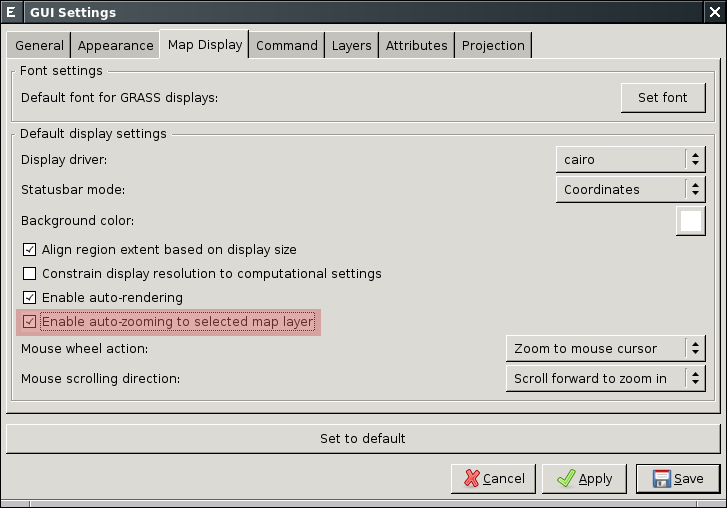
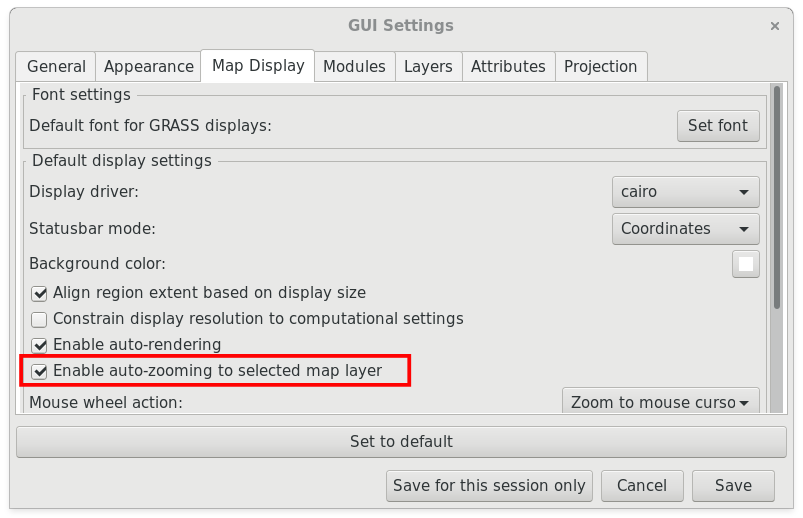
struktura dat + zobrazeni (review, update to g72)

Changed region(s): [[0.0, 0.0, 1.0, 1.0]]

diff --git a/intro/struktura-dat.rst b/intro/struktura-dat.rst
@@ -1,13 +1,15 @@
-.. _struktura-dat:
+==========================================
+ Struktura dat - koncept lokací a mapsetů
+==========================================
 
-Struktura dat - koncept lokací a mapsetů
-----------------------------------------
+Data, ke kterým GRASS přistupuje, musí mít pevně danou strukturu. Při
+spuštění systému GRASS uživatel volí *tři* níže uvedené elementy v
+daném pořadí, viz obrázek níže.
 
-Data, ke kterým GRASS přistupuje, mají pevně danou strukturu. Při
-:ref:`spuštění systému GRASS <spusteni-grass>` musí uživatel zvolit
-*tři* níže uvedené elementy v daném pořadí:
+.. figure:: images/welcome-screen.png
+            :scale-latex: 45
 
-**Adresář s geodaty (DataBase)**
+**1. Adresář s geodaty (DataBase)**
 
    Jde o adresář umístěný na lokálním či síťovém disku,
    např. :file:`/opt/grassdata` nebo :file:`C:\\grassdata` v případě
@@ -25,11 +27,11 @@ Data, ke kterým GRASS přistupuje, mají pevně danou strukturu. Při
 
 .. _lokace:
    
-**Lokace (Location)**
+**2. Lokace (Location)**
 
    Lokace je adresář umístěný v GRASS DataBase (adresáři s
-   geodaty). Tento adresář obsahuje data, která souvisejí s daným
-   projektem. Lokace je definována *souřadnicovým systémem*
+   geodaty). Lokace obsahuje data, která souvisejí s daným
+   *projektem*. Lokace je definována *souřadnicovým systémem*
    (referenční elipsoid, kartografické zobrazení, mapové jednotky) a
    výchozí velikostí zájmového území.
 
@@ -38,24 +40,23 @@ Data, ke kterým GRASS přistupuje, mají pevně danou strukturu. Při
    see: mapsety; lokace
    see: mapsety; MAPSET
 
-**Mapset**
+**3. Mapset**
 
-   Mapset je souborem map, které tvoří jakýsi logický celek v rámci
-   lokace (projektu). Může např. odpovídat jednotlivým uživatelům
-   nebo uceleným analýzám (studium vegetace, záplavová území,
-   apod.). Každá lokace musí obsahovat alespoň jeden mapset s
-   unikátním názvem *PERMANENT*. Ten většinou obsahuje
-   základní datové vrstvy a ostatní mapsety jsou brány jako pracovní
-   (zpracování vstupních dat, jejich analýza apod.).
+   Mapset je souborem map, které tvoří logický celek v rámci lokace
+   (projektu). Může např. odpovídat jednotlivým uživatelům nebo
+   uceleným analýzám (studium vegetace, záplavová území, apod.). Každá
+   lokace musí obsahovat mapset s unikátním názvem *PERMANENT*. Ten
+   většinou obsahuje základní datové vrstvy a ostatní mapsety jsou
+   brány jako pracovní (zpracování vstupních dat, jejich analýza
+   apod.).
 
 .. figure:: images/help_loc_struct.png
             :class: middle
             :scale-latex: 72
       
             Struktura adresáře s geodaty, vztah lokace a mapsetů,
-            umístění souborů s daty pro různé typy map (zdroj: `manuál
-            systému GRASS
-            <http://grass.osgeo.org/grass70/manuals/helptext.html>`_).
+            umístění souborů s daty pro různé typy map (zdroj:
+            :grasscmd2:`manuál systému GRASS <helptext.html>`).
 
 .. noteadvanced:: 
    
@@ -66,11 +67,10 @@ Data, ke kterým GRASS přistupuje, mají pevně danou strukturu. Při
 .. note:: **Obvyklé umístění adresáře s geodaty**
       
       Adresář s geodaty je většinou umístěn v domovském adresáři
-      uživatele pod názvem :file:`grassdata`. V případě :wikipedia:`MS
-      Windows` to může být
-      :file:`%USERPROFILE%\\Documents\\grassdata`, u UNIXových
-      operačních systémů jako je :wikipedia:`GNU/Linux` či
-      :wikipedia:`Mac OS X` potom :file:`$HOME/grassdata`.
+      uživatele pod názvem :file:`grassdata`. V případě MS Windows to
+      může být :file:`%USERPROFILE%\\Documents\\grassdata`, u
+      UNIXových operačních systémů jako je GNU/Linux či Mac OS X potom
+      :file:`$HOME/grassdata`.
 
 .. index::
    pair: vyhledávací cesta; struktura dat
@@ -98,7 +98,7 @@ GRASS working environment --> Mapset access`.
    :class: small
    :scale-latex: 45
 
-   Přidání mapsetu `ruian` do vyhledávací cesty.
+   Přidání mapsetu "ruian" do vyhledávací cesty.
 
 .. notecmd:: Přidání mapsetu do vyhledávací cesty
 
@@ -109,4 +109,4 @@ GRASS working environment --> Mapset access`.
 .. figure:: images/d-rast-user1-ruian.png
 
    Přidání nové rastrové mapy do mapového okna, kromě aktuálního
-   mapsetu a mapset `PERMANENT` je viditelný i mapset `ruian`.
+   mapsetu a mapset `PERMANENT` je viditelný i mapset "ruian".

diff --git a/intro/prvni-kroky.rst b/intro/prvni-kroky.rst
@@ -2,38 +2,35 @@
 ---------------------
 
 Systém GRASS vyžaduje spravovat geodata *v pevně definované
-struktuře*, v konceptu tzv.  :doc:`lokací a mapsetů
-<../intro/struktura-dat>`. To bývá pro začínajícího uživatele
+struktuře*, v konceptu tzv. *lokací a mapsetů*, viz kapitola
+:doc:`../intro/struktura-dat`. To bývá pro začínajícího uživatele
 kritickým bodem, proto doporučujeme začít pracovat s předpřipravenými
 datovými sadami (viz poznámka níže) a teprve po pochopení tohoto
-konceptu :doc:`importovat <../data/import>` do systému GRASS svoje
-vlastní data.
+konceptu importovat do systému GRASS svoje vlastní data, viz kapitola
+:doc:`../data/import`.
 
 .. tip::
 
    Na webových stránkách projektu GRASS jsou volně ke stažení
    `testovací a edukační datasety
    <http://grass.osgeo.org/download/sample-data/>`_. Jde především o
-   edukační datovou sadu OSGeo `North Carolina
-   <http://www.grassbook.org/data_menu3rd.php>`_ dataset, která je ke
-   stažení jako `zip archiv
+   datovou sadu *North Carolina*, která je ke stažení jako `zip archiv
    <http://grass.osgeo.org/sampledata/north_carolina/nc_spm_08_grass7.zip>`_. Tato
    data lze pod MS Windows stáhnout i pomocí :ref:`nativního
-   instalátoru <nativni-instalator-data>`. V tomto případě najdete
-   data v adresáři ``%USERPROFILE%\Documents\grassdata``.
+   instalátoru <nativni-instalator-data>`, v tomto případě budou
+   umístěna v adresáři ``%USERPROFILE%\Documents\grassdata``.
 
 Spuštění systému GRASS
 ======================
 
-V případě, že je GRASS :doc:`nainstalován <../instalace/index>`
-standardní cestou, měl by být dostupný z hlavní nabídky vašeho
-operačního systému.
+V případě, že je GRASS nainstalován běžným způsobem, měl by být
+dostupný z hlavní nabídky vašeho operačního systému.
 
 .. figure:: ../instalace/images/grass-ubuntu-launch.png
             :class: middle
             :scale-latex: 60
                  
-            Spuštění systému GRASS v Ubuntu
+            Spuštění systému GRASS v Ubuntu.
 
 .. figure:: ../instalace/images/wingrass-4.png
             :scale-latex: 40
@@ -43,23 +40,11 @@ operačního systému.
 .. raw:: latex
                      
    \newpage
-         
-.. notecmd:: Spuštění systému GRASS v OS Linux
 
-   V operačním systému :wikipedia:`GNU/Linux` je dostupný systém GRASS
-   po instalaci z příkazové řádky jako program ``grassXY``, kde ``XY``
-   označuje jeho verzi. To umožňuje vedle sebe nainstalovat současně
-   různé verze systému GRASS. Příklad spuštění verze GRASS 7.0:
-
-   .. code-block:: bash
-
-                grass70
-
-Ve výchozím nastavení program nastartuje v grafickém módu. Úvodní
-dialog umožňuje nastavit :doc:`adresář s geodaty, lokaci a mapset
-<../intro/struktura-dat>`, které jsou nutné pro samotné spuštění
-systému. Po jejich zadaní lze pokračovat dále (tlačítko
-:item:`Start GRASS`).
+Ve výchozím nastavení systém GRASS nastartuje v grafickém módu. Úvodní
+dialog umožňuje nastavit adresář s geodaty, lokaci a mapset, viz
+kapitola :doc:`../intro/struktura-dat`, což je nutný krok pro samotné
+spuštění systému (:item:`Start GRASS session`).
 
 .. _spusteni-grass:
 
@@ -80,14 +65,14 @@ systému. Po jejich zadaní lze pokračovat dále (tlačítko
 
                   .. code-block:: bash
 
-                                  grass70 -text /opt/grassdata/gismentors/user1
+                                  grass -text /opt/grassdata/gismentors/user1
 
                 * GRASS v grafickém rozhraní, adresář s geodaty, lokace a
                   mapset nastavena z předchozího spuštění:
 
                   .. code-block:: bash
 
-                                  grass70 -gui
+                                  grass -gui
 
                 * GRASS v grafickém rozhraní, vytvořit novou lokace
                   ``skoleni`` (souřadnicový systém S-JTSK :epsg:`5514`
@@ -96,4 +81,4 @@ systému. Po jejich zadaní lze pokračovat dále (tlačítko
 
                   .. code-block:: bash
 
-                                  grass70 -gui -c EPSG:5514:3 /opt/grassdata/skoleni
+                                  grass -gui -c EPSG:5514:3 /opt/grassdata/skoleni

diff --git a/intro/zobrazeni-geodat.rst b/intro/zobrazeni-geodat.rst
@@ -19,34 +19,30 @@ objeví *správce vrstev* (Layer Manager) a *mapové okno* (Map Display).
       g.gui
 
 .. figure:: images/grass-gui-launch.png
-            :class: middle
+            :class: large
             :scale-latex: 85
                  
             Základní komponenty GUI systému GRASS - správce vrstev
             :fignote:`(1)` a mapové okno :fignote:`(2)`.
 
-Rastrová či vektorová data lze do *stromu vrstev* (viz záložka :item:`Map
-layers`) přidávat z menu :menuselection:`File --> Map display`, nástrojové lišty či
-přímo z příkazové řádky *správce vrstev*, viz :ref:`níže <zobrazeni-dat-raster>`.
+Rastrová či vektorová data lze do *správce vrstev* (záložka
+:item:`Layers`) přidávat z menu :menuselection:`File --> Map display`,
+nástrojové lišty či přímo z příkazové řádky *správce vrstev* (záložka
+:item:`Console`), viz :ref:`níže <zobrazeni-dat-raster>`.
 
 .. raw:: latex
 
    \newpage
          
-.. note::
+.. tip::
 
-   Pokud se v mapovém okně nezobrazují žádná data, je nutné nastavit
-   pohled na aktuálně vybranou mapu.
-
-   .. figure:: images/map-display-full-zoom.png
-               :class: middle
-               :scale-latex: 65
-                    
-               Nastavení pohledu mapového okna na aktuálně vybranou
-               mapovou vrstvu.
-
-   Automatické nastavení pohledu při přidání nové mapové vrstvy lze
-   nastavit v :menuselection:`Settings --> Preferences`.
+   Pokud se v mapovém okně po přidání vrstvy nezobrazují žádná data,
+   je nutné nastavit pohled na aktuálně vybranou mapovou vrstvu
+   |grass-zoom-extent| :sup:`Zoom to selected map
+   layer(s)`. Automatické nastavení pohledu při přidání každé nové
+   mapové vrstvy lze kontrolovat v nastavení |grass-settings|
+   :sup:`GUI Settings` anebo z menu :menuselection:`Settings -->
+   Preferences`.
 
    .. figure:: images/wxgui-settings-autozoom.png
       :scale-latex: 50

diff --git a/instalace/windows.rst b/instalace/windows.rst
@@ -72,7 +72,7 @@ Nativní instalátor je dostupný na adrese: https://grass.osgeo.org/download/so
             
             Po startu se objeví úvodní obrazovka systému GRASS pro
 	    výběr tzv. lokace a mapsetu, viz kapitola
-	    :ref:`struktura-dat`.
+	    :doc:`../intro/struktura-dat`.
 
 .. raw:: latex
 
